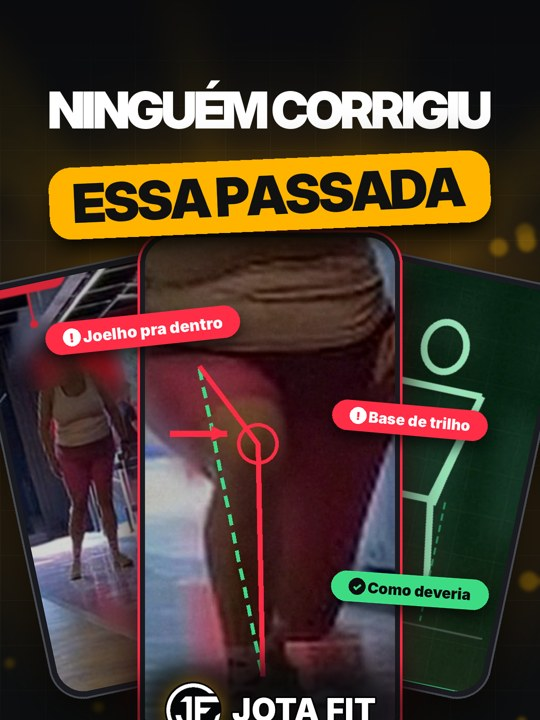
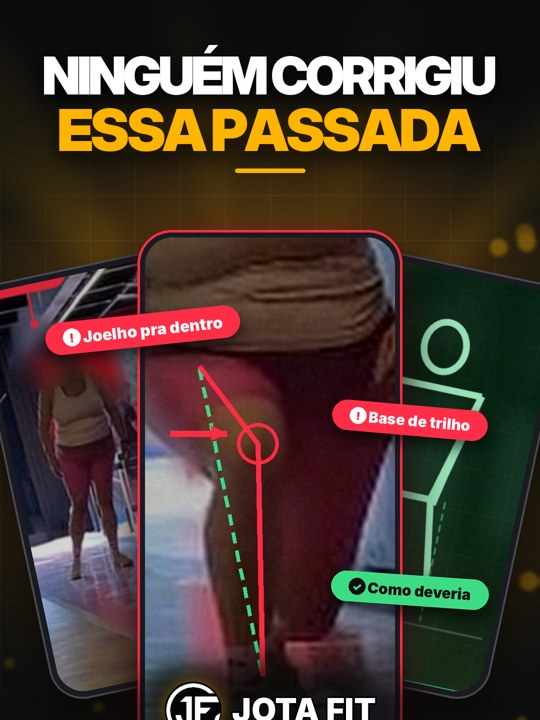
Capas: título sem caixa, sem amarelo nos músculos e biomecânica sutil no stiff e nas costas
Claude-Session: https://claude.ai/code/session_01UuH9TpKCs4xLYma23g83NG

Changed region(s): [[0.0593, 0.0611, 0.9185, 0.3667]]

diff --git a/analises/capas/covers.py b/analises/capas/covers.py
@@ -69,22 +69,23 @@ def tight(text, font, fill, track):
     for c, w in zip(text, ws): d.text((x, im.height / 2), c, font=font, fill=fill + (255,), anchor='lm'); x += w + track
     return im.crop(im.getbbox())
 
-def headline(lay, l1, l2, y=400, s1=150, s2=124, maxw=900, box_col=YEL, fg2=(17, 17, 17)):
+def headline(lay, l1, l2, y=330, s1=140, s2=132, maxw=920, **_):
+    """Boxless: white line 1, amber line 2, soft depth shadow, thin accent rule."""
     a = tight(l1, F('disp', s1), WHITE, -7)
     if a.width > maxw: a = tight(l1, F('disp', int(s1 * maxw / a.width)), WHITE, -7)
-    lay.alpha_composite(a, (int(W / 2 - a.width / 2), y))
-    b = tight(l2, F('disp', s2), fg2, -6)
-    if b.width > maxw - 110: b = tight(l2, F('disp', int(s2 * (maxw - 110) / b.width)), fg2, -6)
-    bw, bh = b.width + 100, b.height + 64
-    box = Image.new('RGBA', (bw, bh), (0, 0, 0, 0)); ImageDraw.Draw(box).rounded_rectangle((0, 0, bw - 1, bh - 1), 44, fill=box_col + (255,))
-    box.alpha_composite(b, (50, 32)); box = box.rotate(2.5, resample=Image.BICUBIC, expand=True)
-    by = y + a.height + 40
-    g = Image.new('RGBA', (W, H)); t = Image.new('RGBA', box.size, box_col + (0,)); t.putalpha(box.split()[3].point(lambda v: v * 130 // 255))
-    g.alpha_composite(t, (int(W / 2 - box.width / 2), by)); lay.alpha_composite(g.filter(ImageFilter.GaussianBlur(40)))
-    sh = Image.new('RGBA', (W, H)); t = Image.new('RGBA', box.size, (0, 0, 0, 0)); t.putalpha(box.split()[3])
-    sh.alpha_composite(t, (int(W / 2 - box.width / 2), by + 24)); lay.alpha_composite(sh.filter(ImageFilter.GaussianBlur(22)))
-    lay.alpha_composite(box, (int(W / 2 - box.width / 2), by))
-    return by + box.height
+    b = tight(l2, F('disp', s2), YEL, -7)
+    if b.width > maxw: b = tight(l2, F('disp', int(s2 * maxw / b.width)), YEL, -7)
+    ax, bx = int(W / 2 - a.width / 2), int(W / 2 - b.width / 2); by = y + a.height + 26
+    sh = Image.new('RGBA', (W, H))
+    for im, x, yy in ((a, ax, y), (b, bx, by)):
+        t = Image.new('RGBA', im.size, (0, 0, 0, 0)); t.putalpha(im.split()[3].point(lambda v: v * 230 // 255)); sh.alpha_composite(t, (x, yy + 14))
+    lay.alpha_composite(sh.filter(ImageFilter.GaussianBlur(18)))
+    g = Image.new('RGBA', (W, H)); t = Image.new('RGBA', b.size, YEL + (0,)); t.putalpha(b.split()[3].point(lambda v: v * 90 // 255)); g.alpha_composite(t, (bx, by))
+    lay.alpha_composite(g.filter(ImageFilter.GaussianBlur(34)))
+    lay.alpha_composite(a, (ax, y)); lay.alpha_composite(b, (bx, by))
+    ry = by + b.height + 34
+    ImageDraw.Draw(lay).rounded_rectangle((W / 2 - 70, ry, W / 2 + 70, ry + 8), 4, fill=YEL + (255,))
+    return ry + 8
 
 def chip(lay, text, cx, cy, kind='white', rot=0, size=36, icon=None):
     bg = {'white': (255, 255, 255), 'yellow': YEL, 'green': GREEN, 'red': RED, 'dark': (22, 22, 26)}[kind]
@@ -213,30 +214,104 @@ def target_ring(lay, x, y, r=46):
     g = Image.new('RGBA', (W, H)); ImageDraw.Draw(g).ellipse((x - r - 20, y - r - 20, x + r + 20, y + r + 20), fill=YEL + (120,)); lay.alpha_composite(g.filter(ImageFilter.GaussianBlur(18)))
     ImageDraw.Draw(lay).ellipse((x - r, y - r, x + r, y + r), outline=YEL + (255,), width=6)
 
-def hero_exercise(photo, l1, l2, target, items, name, seed):
-    """photo: path; target: (fx, fy) muscle point in fraction of the hero card"""
+def biomech(photo, spec):
+    """Subtle biomech overlay drawn on the photo itself (crop pixel coords), 3x supersampled."""
+    im = Image.open(photo).convert('RGB'); w, h = im.size; S = 3
+    sc = lambda p: (p[0] * S, p[1] * S)
+    # 1) faint muscle highlight: soft amber glow + thin dashed contour
+    glow = Image.new('L', (w * S, h * S), 0); gd = ImageDraw.Draw(glow)
+    gd.polygon([sc(p) for p in spec['muscle']], fill=255)
+    glow = glow.filter(ImageFilter.GaussianBlur(14 * S))
+    base = im.convert('RGBA').resize((w * S, h * S), Image.LANCZOS)
+    tint = Image.new('RGBA', base.size, YEL + (0,)); tint.putalpha(glow.point(lambda v: v * 95 // 255))
+    base.alpha_composite(tint)
+    ov = Image.new('RGBA', base.size, (0, 0, 0, 0)); d = ImageDraw.Draw(ov)
+    def dashed(pts, col, wd, dash=14, gap=10, closed=False):
+        P = [sc(p) for p in pts] + ([sc(pts[0])] if closed else [])
+        for (x0, y0), (x1, y1) in zip(P, P[1:]):
+            L = math.hypot(x1 - x0, y1 - y0); n = max(1, int(L / ((dash + gap) * S)))
+            for k in range(n):
+                t0 = k / n; t1 = t0 + dash / (dash + gap) / n
+                d.line([(x0 + (x1 - x0) * t0, y0 + (y1 - y0) * t0), (x0 + (x1 - x0) * t1, y0 + (y1 - y0) * t1)], fill=col, width=wd * S)
+    dashed(spec['muscle'], YEL + (200,), 2, 8, 7, closed=True)
+    # 2) skeleton: thin white segments with soft dark outline, joint dots
+    for seg in spec['bones']:
+        d.line([sc(p) for p in seg], fill=(0, 0, 0, 110), width=9 * S, joint='curve')
+    for seg in spec['bones']:
+        d.line([sc(p) for p in seg], fill=(255, 255, 255, 235), width=4 * S, joint='curve')
+    for p in {tuple(p) for seg in spec['bones'] for p in seg}:
+        x, y = sc(p); r = 9 * S; d.ellipse((x - r, y - r, x + r, y + r), fill=(255, 255, 255, 255), outline=(0, 0, 0, 160), width=2 * S)
+        r = 4 * S; d.ellipse((x - r, y - r, x + r, y + r), fill=YEL + (255,))
+    # 3) reference line (dashed green) e.g. neutral spine
+    if 'ref' in spec: dashed(spec['ref'], GREEN + (235,), 3, 12, 9)
+    # 4) angle arc at a joint
+    if 'angle' in spec:
+        c, p1, p2 = spec['angle']; R = spec.get('arc_r', 62)
+        a1 = math.degrees(math.atan2(p1[1] - c[1], p1[0] - c[0])); a2 = math.degrees(math.atan2(p2[1] - c[1], p2[0] - c[0]))
+        if (a2 - a1) % 360 > 180: a1, a2 = a2, a1
+        cx, cy = sc(c); RR = R * S
+        d.pieslice((cx - RR, cy - RR, cx + RR, cy + RR), a1, a2, fill=YEL + (70,))
+        d.arc((cx - RR, cy - RR, cx + RR, cy + RR), a1, a2, fill=YEL + (255,), width=4 * S)
+    # 5) direction arrow (thin, amber)
+    if 'arrow' in spec:
+        (x0, y0), (x1, y1) = sc(spec['arrow'][0]), sc(spec['arrow'][1])
+        d.line([(x0, y0), (x1, y1)], fill=(0, 0, 0, 120), width=10 * S); d.line([(x0, y0), (x1, y1)], fill=YEL + (255,), width=5 * S)
+        ang = math.atan2(y1 - y0, x1 - x0); L = 24 * S
+        d.polygon([(x1 + 6 * S * math.cos(ang), y1 + 6 * S * math.sin(ang)), (x1 - L * math.cos(ang - .5), y1 - L * math.sin(ang - .5)), (x1 - L * math.cos(ang + .5), y1 - L * math.sin(ang + .5))], fill=YEL + (255,))
+    base.alpha_composite(ov)
+    base = base.resize((w, h), Image.LANCZOS); d2 = ImageDraw.Draw(base)
+    # 6) small text labels (no boxes): white text with dark stroke
+    for (x, y, txt, col, sz) in spec.get('labels', []):
+        d2.text((x, y), txt, font=F('black', sz), fill=col + (255,), anchor='mm', stroke_width=4, stroke_fill=(0, 0, 0, 230))
+    return base.convert('RGB')
+
+def label(lay, text, x, y, size=40, col=YEL, sub=None):
+    """Boxless label: text with soft shadow (+ optional small subline)."""
+    sh = Image.new('RGBA', (W, H)); ImageDraw.Draw(sh).text((x, y + 6), text, font=F('black', size), fill=(0, 0, 0, 230), anchor='mm')
+    if sub: ImageDraw.Draw(sh).text((x, y + size * 0.95 + 6), sub, font=F('bold', int(size * 0.6)), fill=(0, 0, 0, 230), anchor='mm')
+    lay.alpha_composite(sh.filter(ImageFilter.GaussianBlur(10)))
+    d = ImageDraw.Draw(lay); d.text((x, y), text, font=F('black', size), fill=col + (255,), anchor='mm')
+    if sub: d.text((x, y + size * 0.95), sub, font=F('bold', int(size * 0.6)), fill=(225, 225, 230, 255), anchor='mm')
+
+def hero_exercise(photo, spec, l1, l2, target, lab, items, name, seed):
+    """target: (fx, fy) point in fraction of the hero card; lab: (text, sub)"""
     base = background(seed, 1080); lay = Image.new('RGBA', (W, H))
-    im = load(photo, 1.12)
+    im = biomech(photo, spec)
+    im = ImageEnhance.Brightness(im).enhance(1.10); im = ImageEnhance.Contrast(im).enhance(1.06)
     cw, ch = 640, 900
-    hero = card(im, cw, ch, -3, rad=46, border=YEL, bw=5, cx=0.5, cy=0.3)
+    hero = card(im, cw, ch, -3, rad=46, border=(90, 92, 100), bw=4, cx=0.5, cy=0.3)
     hx, hy = 600, 1175
-    place(lay, hero, hx, hy, 190, glow=YEL, glow_a=110)
+    place(lay, hero, hx, hy, 190, glow=YEL, glow_a=70)
     fades(lay, top=700, bottom=1640)
-    # target marker + "trabalha aqui"
     tx = hx - cw / 2 + target[0] * cw; ty = hy - ch / 2 + target[1] * ch
-    target_ring(lay, tx, ty)
-    chip(lay, 'Trabalha aqui', 830, 800, 'yellow', rot=-4, size=34)
-    curved_arrow(lay, (820, 840), (tx + 40, ty - 40), bend=-0.3)
+    label(lay, lab[0], 790, 780, 34, YEL, lab[1])
+    curved_arrow(lay, (800, 835), (tx + 30, ty - 30), bend=-0.3, width=6)
     place(lay, plan_phone(items), 200, 1370, 200)
     headline(lay, l1, l2)
     brand(lay, 1720); save(base, lay, name)
 
+# crop-pixel coordinates (stiff_clean 630x920, costas_clean 605x770)
+STIFF = dict(
+    bones=[[(118, 150), (398, 282)], [(398, 282), (300, 600), (236, 800)]],
+    ref=[(70, 128), (470, 318)],
+    angle=((398, 282), (118, 150), (300, 600)), arc_r=70,
+    muscle=[(420, 250), (470, 290), (455, 420), (380, 600), (330, 610), (360, 470), (395, 330)],
+    labels=[(250, 108, 'COLUNA NEUTRA', GREEN, 24), (512, 228, 'QUADRIL', YEL, 24)],
+)
+COSTAS = dict(
+    bones=[[(205, 140), (290, 285)], [(160, 138), (120, 225), (78, 305)]],
+    angle=((160, 138), (78, 305), (290, 285)), arc_r=58,
+    arrow=[(70, 360), (150, 300)],
+    muscle=[(215, 150), (262, 170), (300, 260), (270, 280), (232, 230), (205, 185)],
+    labels=[(135, 92, 'OMBRO', YEL, 22), (385, 205, 'DORSAL', YEL, 24)],
+)
+
 def cover_stiff():
-    hero_exercise(A + '/stiff_crop.png', 'SEU STIFF', 'ERRADO?', (0.62, 0.25),
+    hero_exercise(A + '/stiff_clean.png', STIFF, 'SEU STIFF', 'ERRADO?', (0.66, 0.33), ('Posterior de coxa', 'e glúteo'),
                   [('POSTERIOR', 'Técnica do stiff', False), ('CARGA', 'Progressão semanal', False), ('FEEDBACK', 'Correção por vídeo', True)], 'capa-stiff.png', 21)
 
 def cover_costas():
-    hero_exercise(A + '/costas_crop.png', 'SUAS COSTAS', 'NÃO CRESCEM?', (0.40, 0.20),
+    hero_exercise(A + '/costas_clean.png', COSTAS, 'SUAS COSTAS', 'NÃO CRESCEM?', (0.42, 0.24), ('Puxe com o cotovelo', 'dorsal trabalhando'),
                   [('COSTAS', 'Remada guiada', False), ('TRAPÉZIO', 'Pegada aberta', False), ('EVOLUÇÃO', 'Histórico de cargas', True)], 'capa-costas.png', 33)
 
 def cover_evolucao():
